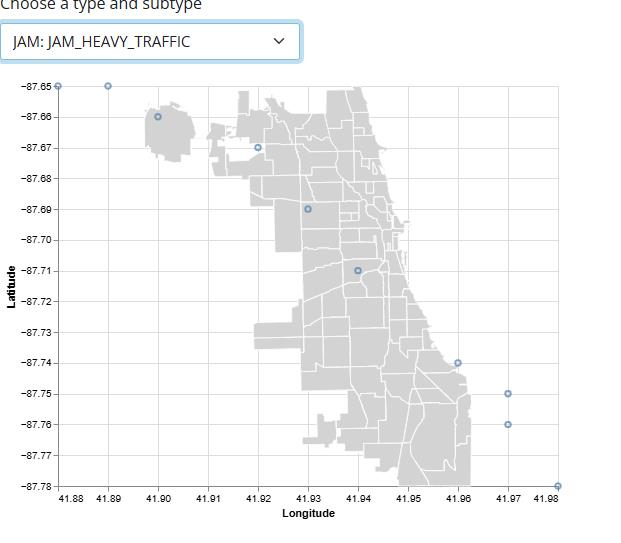
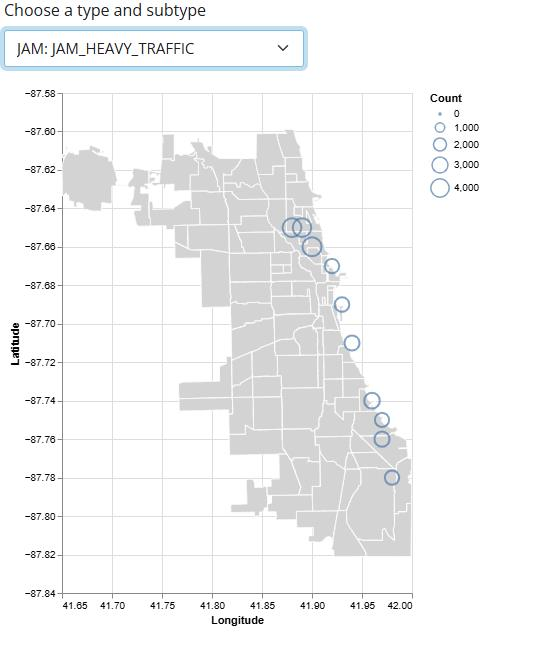
App 2 static versions

diff --git a/top_alerts_map_byhour/basic-app/app.py b/top_alerts_map_byhour/basic-app/app.py
@@ -1,0 +1,30 @@
+from shiny import App, render, ui
+
+app_ui = ui.page_fluid(
+    ui.input_select(id='type_subtype', label='Choose a type and subtype',
+                    choices=['JAM: Unclassified',
+                             'JAM: JAM_HEAVY_TRAFFIC',
+                             'JAM: JAM_MODERATE_TRAFFIC',
+                             'JAM: JAM_STAND_STILL_TRAFFIC',
+                             'JAM: JAM_LIGHT_TRAFFIC',
+                             'ACCIDENT: Unclassified',
+                             'ACCIDENT: ACCIDENT_MAJOR',
+                             'ACCIDENT: ACCIDENT_MINOR',
+                             'ROAD_CLOSED: Unclassified',
+                             'ROAD_CLOSED: ROAD_CLOSED_EVENT',
+                             'ROAD_CLOSED: ROAD_CLOSED_CONSTRUCTION',
+                             'ROAD_CLOSED: ROAD_CLOSED_HAZARD',
+                             'HAZARD: Unclassified',
+                             'HAZARD: ON_ROAD',
+                             'HAZARD: On Shoulder',
+                             'HAZARD: Weather']),
+    ui.input_slider("hour", "Choose an Hour (UTC)", 1, 24, 1),
+
+)
+
+
+def server(input, output, session):
+    
+
+
+app = App(app_ui, server)

diff --git a/top_alerts_map/test_app/app.py b/top_alerts_map/test_app/app.py
@@ -71,18 +71,23 @@ def server(input, output, session):
     @render_altair
     def plot():
         data=subset()
+        min_long=41.65
+        max_long=42.0
+        min_lat=-87.84
+        max_lat=-87.58
+
         points=chart = alt.Chart(data).mark_point().encode(
-        alt.X('Longitude:Q', scale=alt.Scale(domain=[data['Longitude'].min(), data['Longitude'].max()])),
-        alt.Y('Latitude:Q', scale=alt.Scale(domain=[data['Latitude'].min(), data['Latitude'].max()]))).properties(
-  width=500,
-  height=400)
+        alt.X('Longitude:Q', scale=alt.Scale(domain=[min_long, max_long])),
+        alt.Y('Latitude:Q', scale=alt.Scale(domain=[min_lat, max_lat])),
+        alt.Size('Count:Q')
+        )
 
         chi_map=alt.Chart(chi_geo_data()).mark_geoshape(
         fill='lightgray',
         stroke='white'
         ).encode().properties(
-            width=500,
-            height=400)
+            width=350,
+            height=500)
         
         full_plot=chi_map+points
         return full_plot

diff --git a/top_alerts_map/basic-app/app.py b/top_alerts_map/basic-app/app.py
@@ -67,7 +67,7 @@ def server(input, output, session):
         # Get the subset data and pass it to the table render function
         return subset()  # No need to use subset() as a function, it's already a DataFrame
     
-    @reactive.effect
+    @reactive.calc
     def chi_geo_data():
         # Load the GeoJSON data for future use in a geospatial plot
         file_path = r"C:\Users\laine\OneDrive\Documents\GitHub\student30538\problem_sets\ps6\top_alerts_map\Boundaries - Neighborhoods.geojson"
